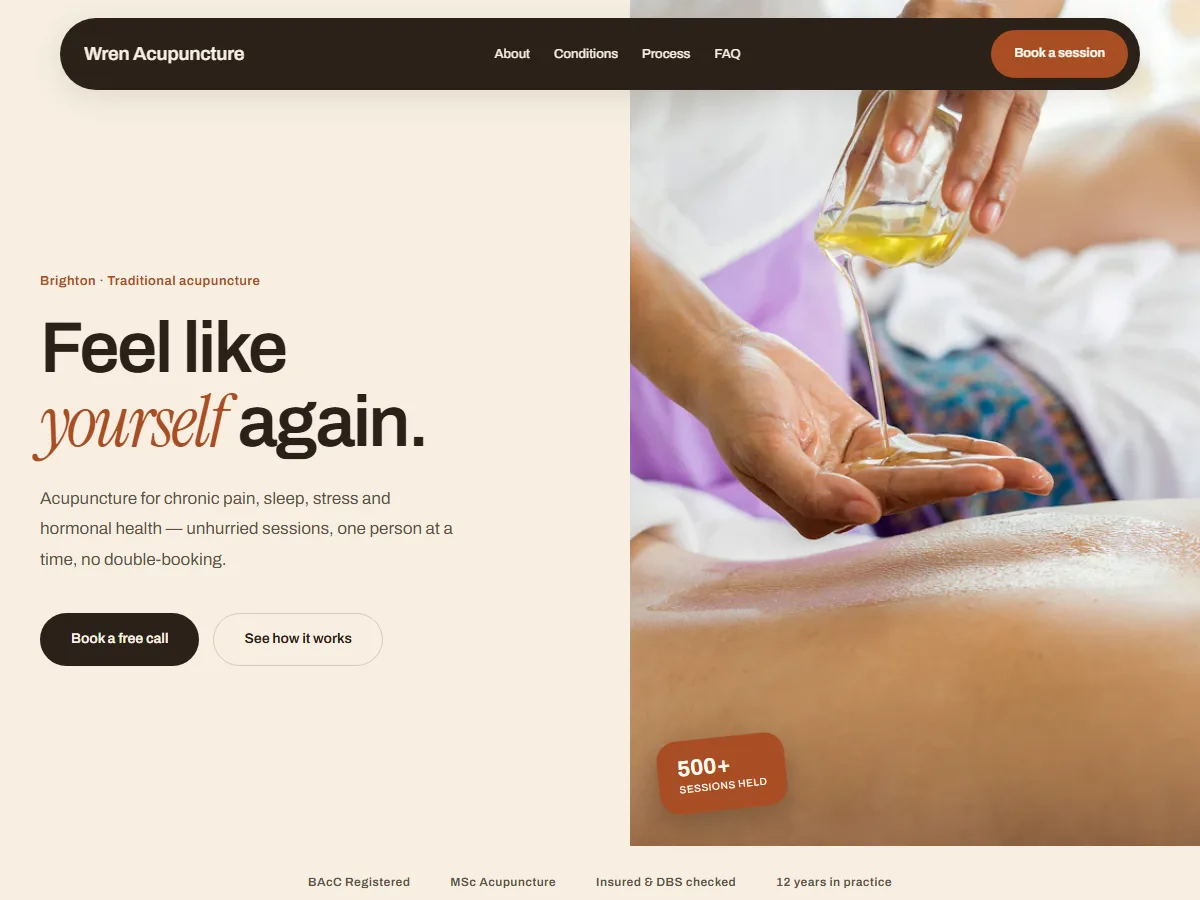
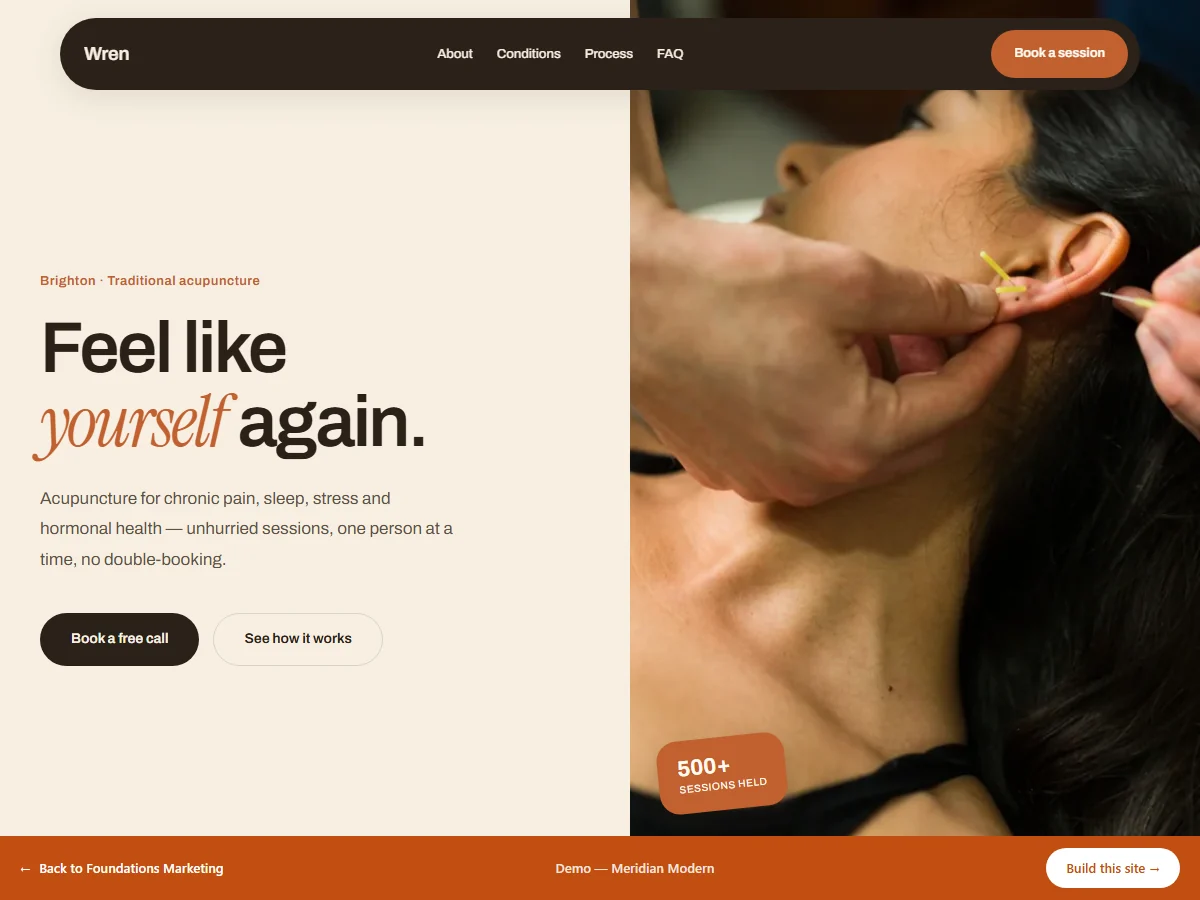
Apply approved marketing and Meridian imagery

diff --git a/plugin/inc/marketing-pages.php b/plugin/inc/marketing-pages.php
@@ -28,6 +28,81 @@ function fm_marketing_update_post(int $post_id, array $fields): void
     }
 }
 
+/** Import a bundled marketing photo once and return its attachment id. */
+function fm_marketing_asset(string $file, string $title, string $alt): int
+{
+    $key = 'fm_marketing_asset_' . md5($file);
+    $existing = (int) get_option($key, 0);
+    if ($existing > 0 && get_post_type($existing) === 'attachment') {
+        return $existing;
+    }
+
+    $source = FM_BLOCKS_DIR . 'assets/images/' . ltrim($file, '/');
+    if (!is_file($source)) {
+        return 0;
+    }
+
+    $upload = wp_upload_bits(basename($source), null, (string) file_get_contents($source));
+    if (!empty($upload['error'])) {
+        return 0;
+    }
+    $type = wp_check_filetype((string) $upload['file']);
+    $id = wp_insert_attachment([
+        'post_mime_type' => (string) ($type['type'] ?? 'image/webp'),
+        'post_title' => $title,
+        'post_status' => 'inherit',
+    ], (string) $upload['file']);
+    if (is_wp_error($id)) {
+        return 0;
+    }
+    require_once ABSPATH . 'wp-admin/includes/image.php';
+    wp_update_attachment_metadata($id, wp_generate_attachment_metadata($id, (string) $upload['file']));
+    update_post_meta($id, '_wp_attachment_image_alt', $alt);
+    update_option($key, $id, false);
+    return (int) $id;
+}
+
+/** Apply the approved supplied photos to the native Homepage and Services blocks. */
+function fm_apply_marketing_photos(): void
+{
+    $ids = [
+        'phone' => fm_marketing_asset('marketing/home-client-phone.webp', 'Client viewing a website', 'A client viewing a website on their phone'),
+        'practitioner' => fm_marketing_asset('marketing/home-practitioner.webp', 'Practitioner at work', 'A wellness practitioner working with a client in warm natural light'),
+        'studio' => fm_marketing_asset('marketing/home-studio.webp', 'Wellness studio', 'A calm wellness studio and treatment space'),
+        'founders' => fm_marketing_asset('chia-ralu.jpg', 'Chia and Ralu', 'Chia and Ralu, co-founders of Foundations Marketing'),
+        'services_hero' => fm_marketing_asset('marketing/services-hero.webp', 'Practitioner at work', 'A practitioner working with a client'),
+        'services_portrait' => fm_marketing_asset('marketing/services-practitioner.webp', 'Independent practitioner', 'An independent practitioner speaking with a client'),
+    ];
+
+    foreach (['fm-block-test' => 'home', 'services' => 'services'] as $slug => $kind) {
+        $page = get_page_by_path($slug, OBJECT, 'page');
+        if (!$page instanceof WP_Post) {
+            continue;
+        }
+        $blocks = parse_blocks($page->post_content);
+        foreach ($blocks as &$block) {
+            if ($kind === 'home' && $block['blockName'] === 'foundations/photo-strip') {
+                $block['attrs']['items'] = [
+                    ['id' => $ids['practitioner'], 'alt' => 'A wellness practitioner working with a client in warm natural light', 'caption' => 'A practitioner at work'],
+                    ['id' => $ids['studio'], 'alt' => 'A calm wellness studio and treatment space', 'caption' => 'A calm studio or treatment room'],
+                    ['id' => $ids['phone'], 'alt' => 'A client viewing a website on their phone', 'caption' => 'A client viewing their site'],
+                ];
+            } elseif ($kind === 'home' && $block['blockName'] === 'foundations/quotes') {
+                $block['attrs']['founderMediaId'] = $ids['founders'];
+                $block['attrs']['founderMediaAlt'] = 'Chia and Ralu, co-founders of Foundations Marketing';
+            } elseif ($kind === 'services' && $block['blockName'] === 'foundations/photo-banner') {
+                $block['attrs']['mediaId'] = $ids['services_hero'];
+                $block['attrs']['mediaAlt'] = 'A practitioner working with a client';
+            } elseif ($kind === 'services' && $block['blockName'] === 'foundations/audience') {
+                $block['attrs']['mediaId'] = $ids['services_portrait'];
+                $block['attrs']['mediaAlt'] = 'An independent practitioner speaking with a client';
+            }
+        }
+        unset($block);
+        fm_marketing_update_post($page->ID, ['post_content' => serialize_blocks($blocks)]);
+    }
+}
+
 function fm_about_page_shortcode(): string
 {
     $photo = FM_BLOCKS_URL . 'assets/images/chia-ralu.jpg';
@@ -119,7 +194,7 @@ add_shortcode('fm_faq_page', 'fm_faq_page_shortcode');
 
 function fm_install_marketing_pages(): void
 {
-    $version = '7';
+    $version = '8';
     if ((string) get_option('fm_native_marketing_pages_version', '') === $version) {
         return;
     }
@@ -209,6 +284,8 @@ function fm_install_marketing_pages(): void
         }
         fm_marketing_update_post($page->ID, ['post_title' => $title, 'post_content' => $content]);
     }
+
+    fm_apply_marketing_photos();
 
     // Remove the retired Pricing item from both current menus and normalise the two
     // catalogue page links. Old Elementor menus are unassigned and intentionally left.
